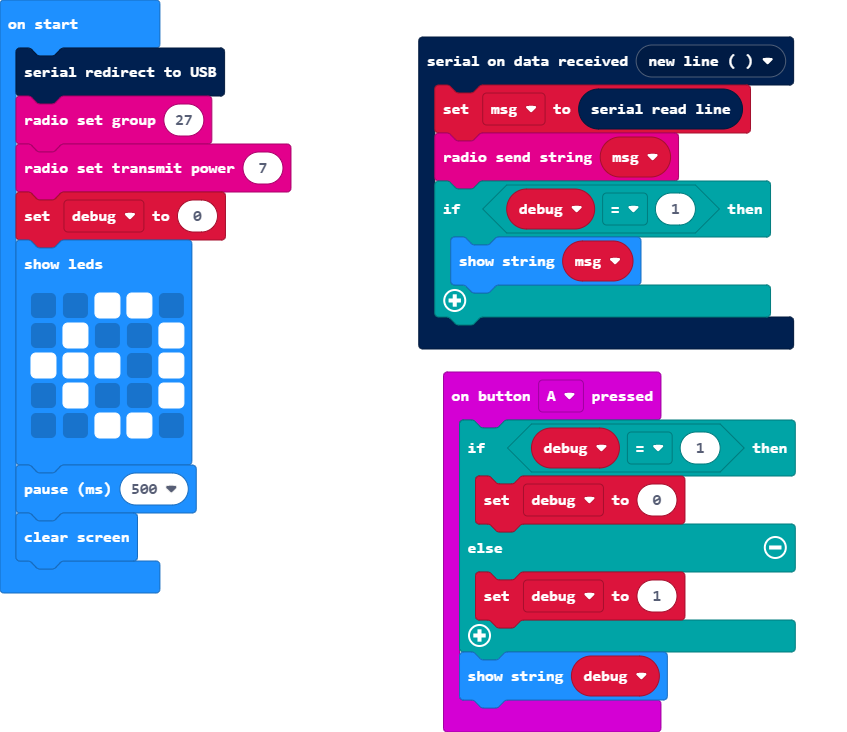
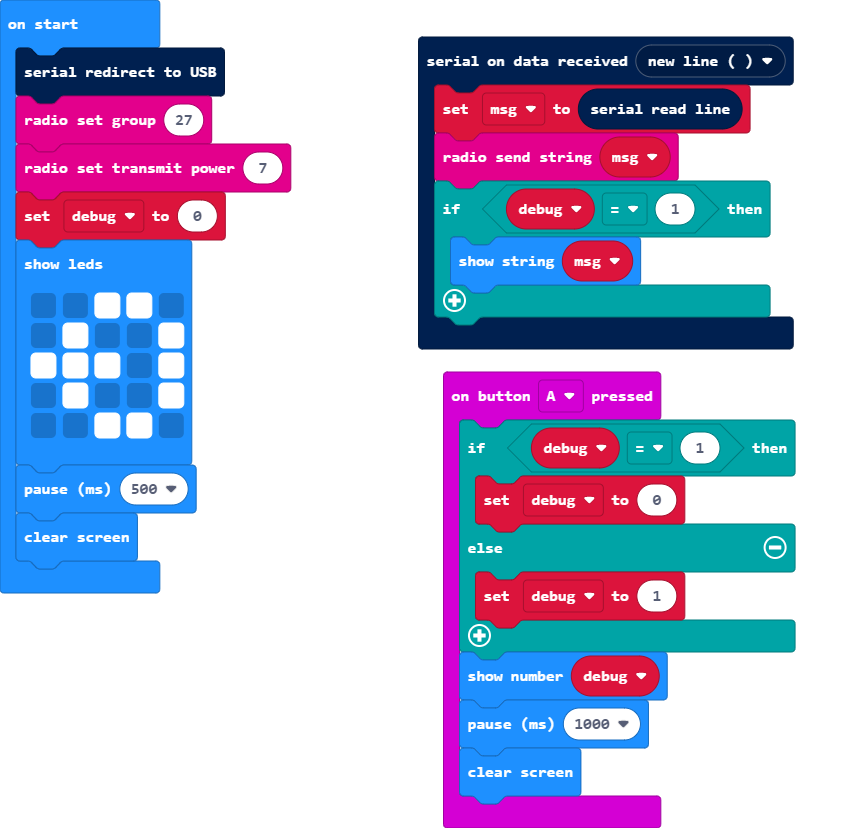
Updates debug mode

diff --git a/main.ts b/main.ts
@@ -4,7 +4,9 @@ input.onButtonPressed(Button.A, function () {
     } else {
         debug = 1
     }
-    basic.showString("" + (debug))
+    basic.showNumber(debug)
+    basic.pause(1000)
+    basic.clearScreen()
 })
 serial.onDataReceived(serial.delimiters(Delimiters.NewLine), function () {
     msg = serial.readLine()
